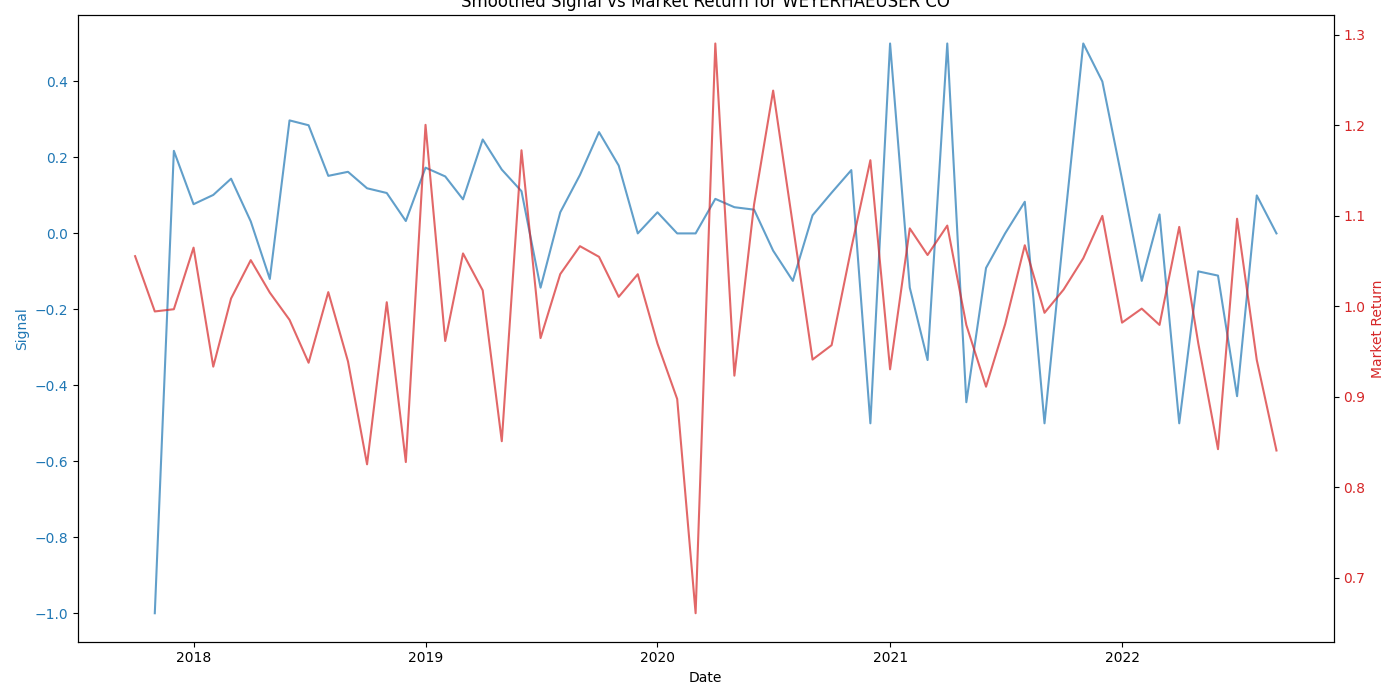
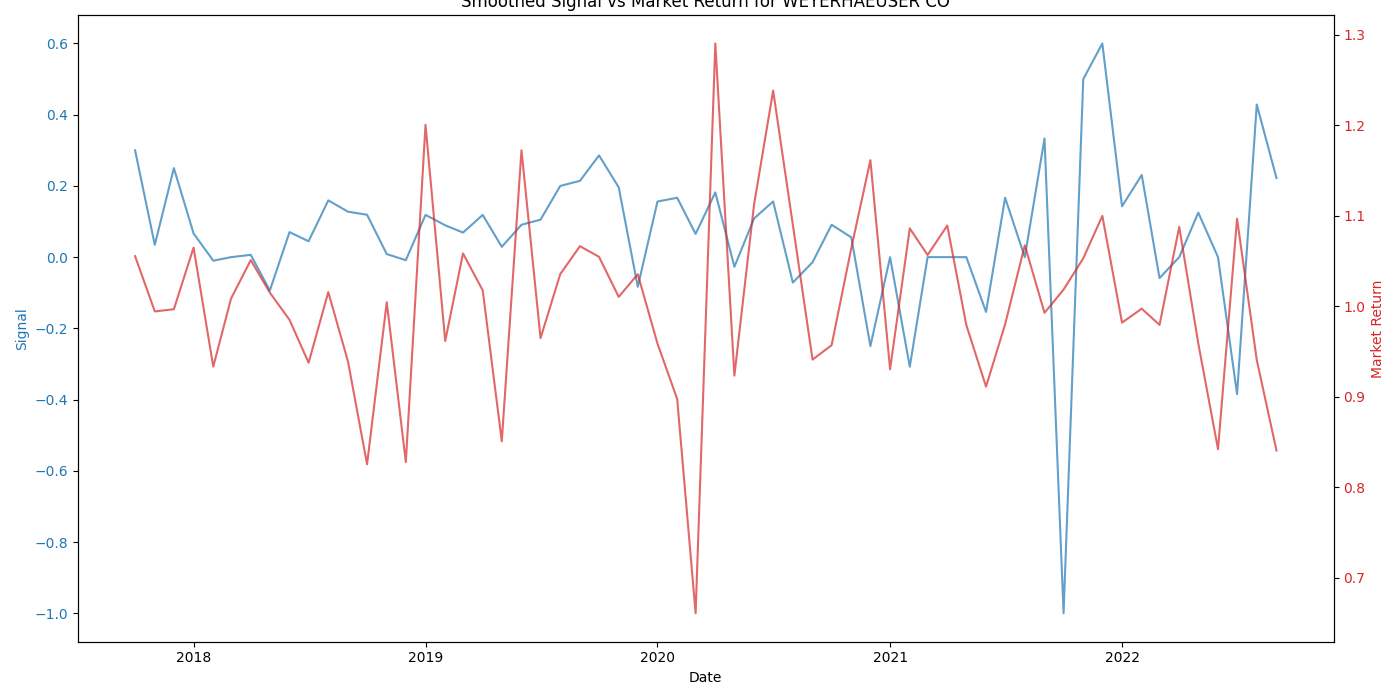
running model

diff --git a/model/score_investment_monthly.py b/model/score_investment_monthly.py
@@ -224,11 +224,11 @@ class MonthlyModelEvaluation:
         accuracy_metrics = {}
 
         def prediction_matches(signal, market_return):
-            if signal > 0.5 and market_return > 0: #strong positive signal
+            if signal > 0.5 and market_return > 1:
                 return True
-            elif signal < -0.5 and market_return < 0: #strong negative signal
+            elif signal < -0.5 and market_return < 1:
                 return True
-            elif -0.5 <= signal <= 0.5 and -0.05 <= market_return <= 0.05: #neutral signal
+            elif -0.5 < signal < 0.5 and 0.9 < market_return < 1.1:
                 return True
             else:
                 return False
@@ -391,7 +391,7 @@ class MonthlyModelEvaluation:
 
 
 if __name__ == "__main__":
-    WEBSCRAPPED_DATA_PATH = "./../data/data_model/all_data.csv"
+    WEBSCRAPPED_DATA_PATH = "./../data/new_webscrapping_predicted/concatenated_prediction.csv"
     DAILY_STOCKS_RETURNS_PATH = "./../data/stocks_data.xlsx"
 
     analysed_tweets = pd.read_csv(WEBSCRAPPED_DATA_PATH)

diff --git a/model/score_investment_daily.py b/model/score_investment_daily.py
@@ -324,7 +324,7 @@ class DailyModelEvaluation:
 
 
 if __name__ == "__main__":
-    WEBSCRAPPED_DATA_PATH = "./../data//new_webscrapping_predicted/concatenated_prediction.csv"
+    WEBSCRAPPED_DATA_PATH = "./../data/new_webscrapping_predicted/concatenated_prediction.csv"
     DAILY_STOCKS_RETURNS_PATH = "./../data/stocks_daily_data.xlsx"
     analysed_tweets = pd.read_csv(WEBSCRAPPED_DATA_PATH)
     df_returns = pd.read_excel(DAILY_STOCKS_RETURNS_PATH, index_col=0)
